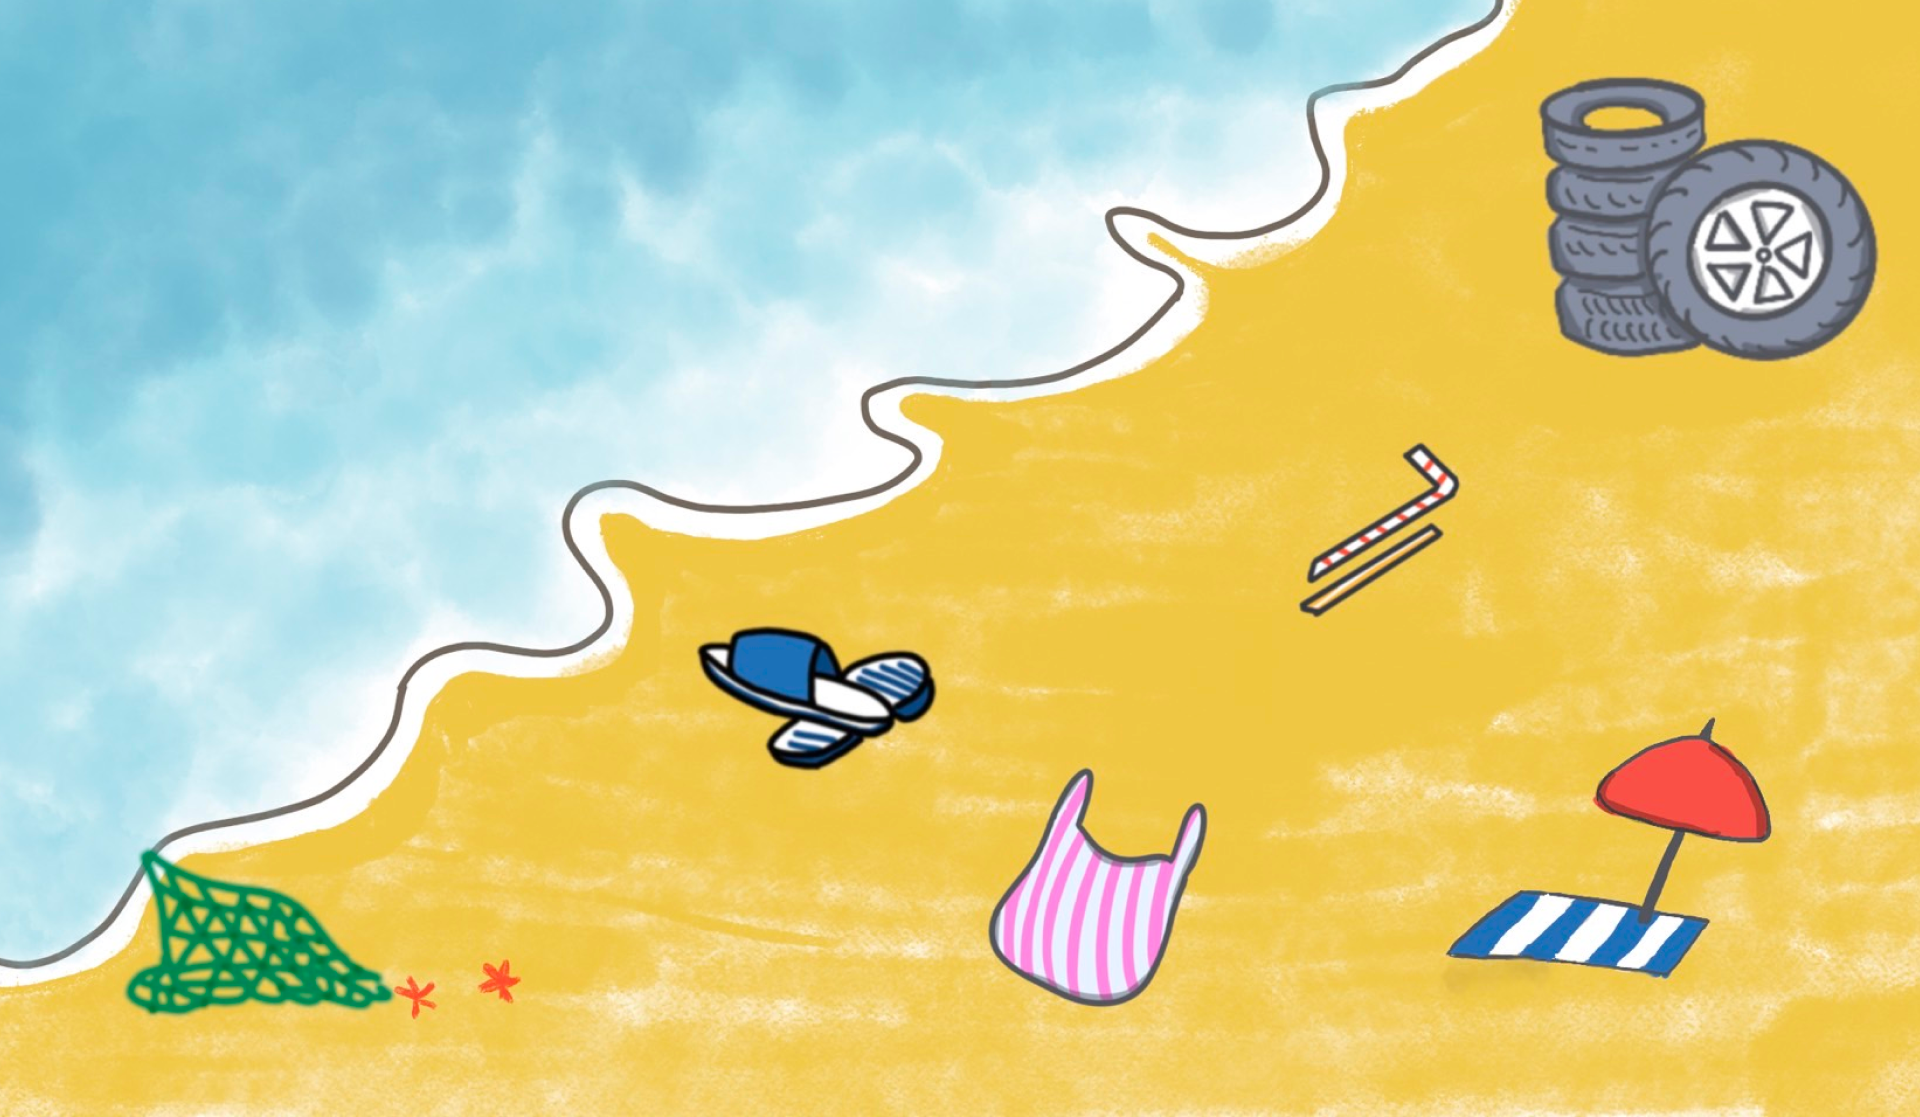
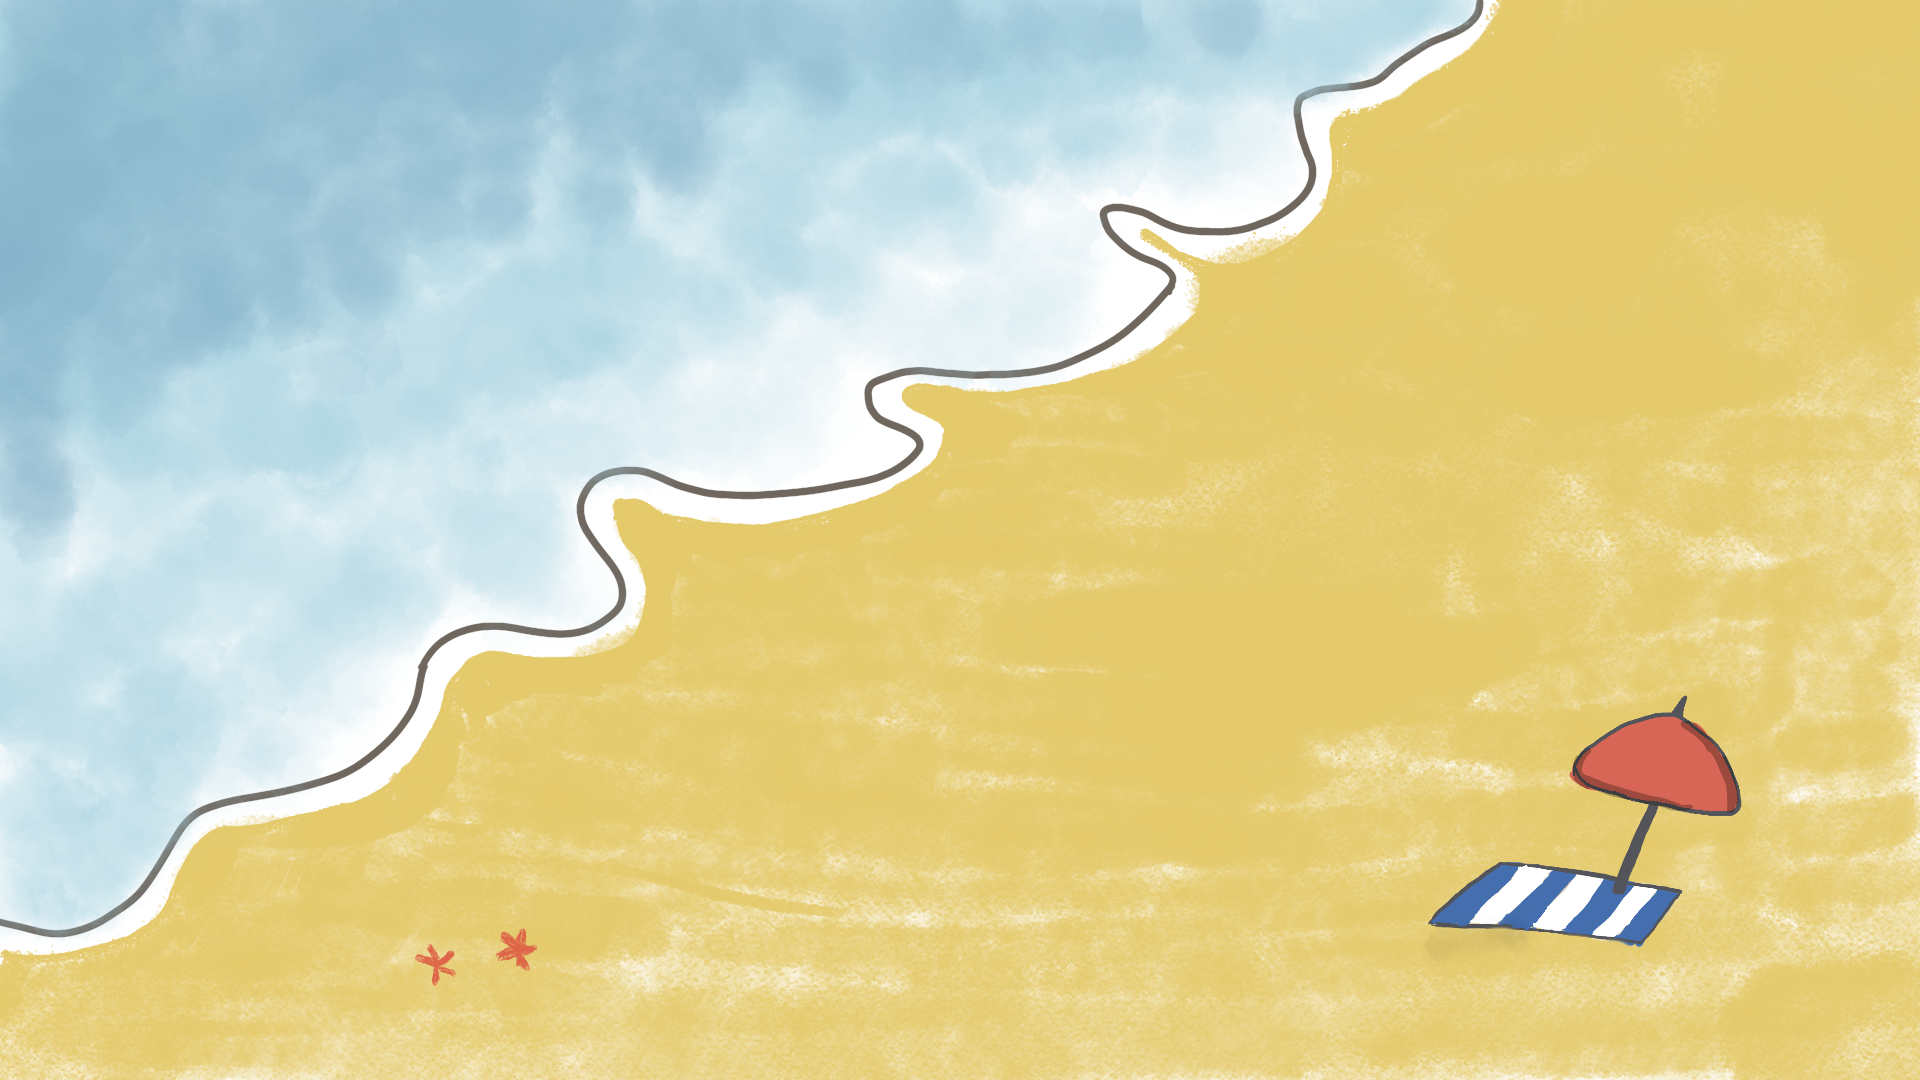
新建頁面內容

diff --git a/src/views/BeachgameView.vue b/src/views/BeachgameView.vue
@@ -1,8 +1,29 @@
 <template>
     <main>
-        <section class="section section-beachgame-content">
-            <div class="beachgame-container">
+        <section class="section section-beachgame">
+            <div class="beachgame-text">
+                <span class="beachgame-title">
+                    淨灘大作戰
+                </span>
+                <h2 class="beachgame-subtitle">一起來淨灘</h2>
+                <button>進入遊戲</button>
             </div>
+            
         </section>
     </main>
 </template>
+
+<!--<script>
+document.addEventListener('wheel', function (event) {
+    // 阻止預設行為
+    event.preventDefault();
+
+    // 獲取 wheelDeltaY 值
+    var deltaY = event.wheelDeltaY || -event.deltaY;
+
+    // 在控制台輸出 wheelDeltaY 值
+    console.log('wheelDeltaY:', deltaY);
+
+    // 其他自定義處理邏輯
+}, { passive: false });
+</script>-->

diff --git a/src/assets/sass/page/_beachgame.scss b/src/assets/sass/page/_beachgame.scss
@@ -1,5 +1,30 @@
-.section-beachgame-content{
+.section-beachgame{
     width:100%;
     height:100vh;
-    background: url(../public/img/beachgame/beachgame-background.png)no-repeat 50% 50% cover;
-}
+    padding: 0;
+        background: url(../public/img/beachgame/beachgame-background.png);
+        background-size: cover;
+        background-position: 50% 50%;
+        z-index: 99999;
+        position: relative;
+        display: flex;
+        flex-direction: column;
+        justify-content: center;
+        align-items: center;
+    }
+    
+    .beachgame-text {
+        width: 50%;
+        padding:50px;
+        border-radius: 20px;
+        text-align: center;
+        border: 2px solid #333;
+        background-color: rgba(255, 255, 255, 0.5)
+    }
+
+    .beachgame-title{
+        font-size: 4vw;
+        font-weight:600;
+        letter-spacing: 2vw;
+        line-height: 6rem;
+    }

diff --git a/src/views/KnowledgeView.vue b/src/views/KnowledgeView.vue
@@ -134,7 +134,7 @@
   <section class="section section-game">
     <div class="container">
       <h2>放鬆之餘，也能用有趣的方式更了解海廢</h2>
-      <a href="./BeachgameView.vue">
+      <a href="./BeachgameView">
         <div class="card">
             <div class="row">
               <div class="card-content col-12 col-md-3">

diff --git a/src/assets/sass/page/_knowledge.scss b/src/assets/sass/page/_knowledge.scss
@@ -1,6 +1,6 @@
 .section-knowledge-banner {
     height: 100vh;
-    background: url(../../../../public/img/knowledge/banner1.png)no-repeat 50% 50% / cover;
+    background: url(../public/img/knowledge/banner1.png)no-repeat 50% 50% / cover;
     color: #fff;
 
     .container {
